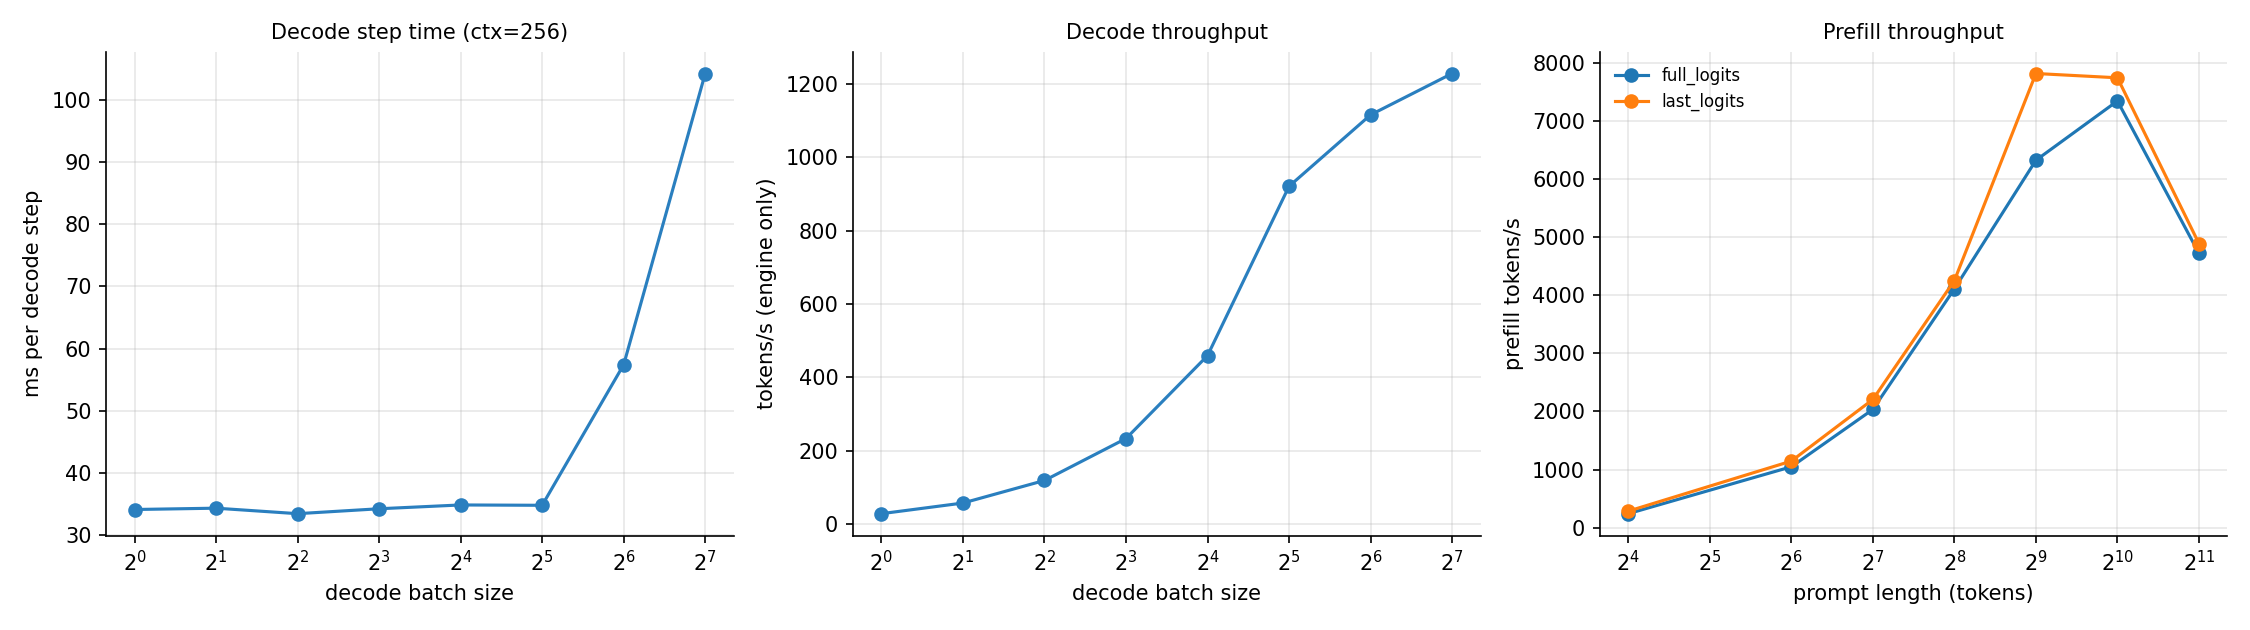
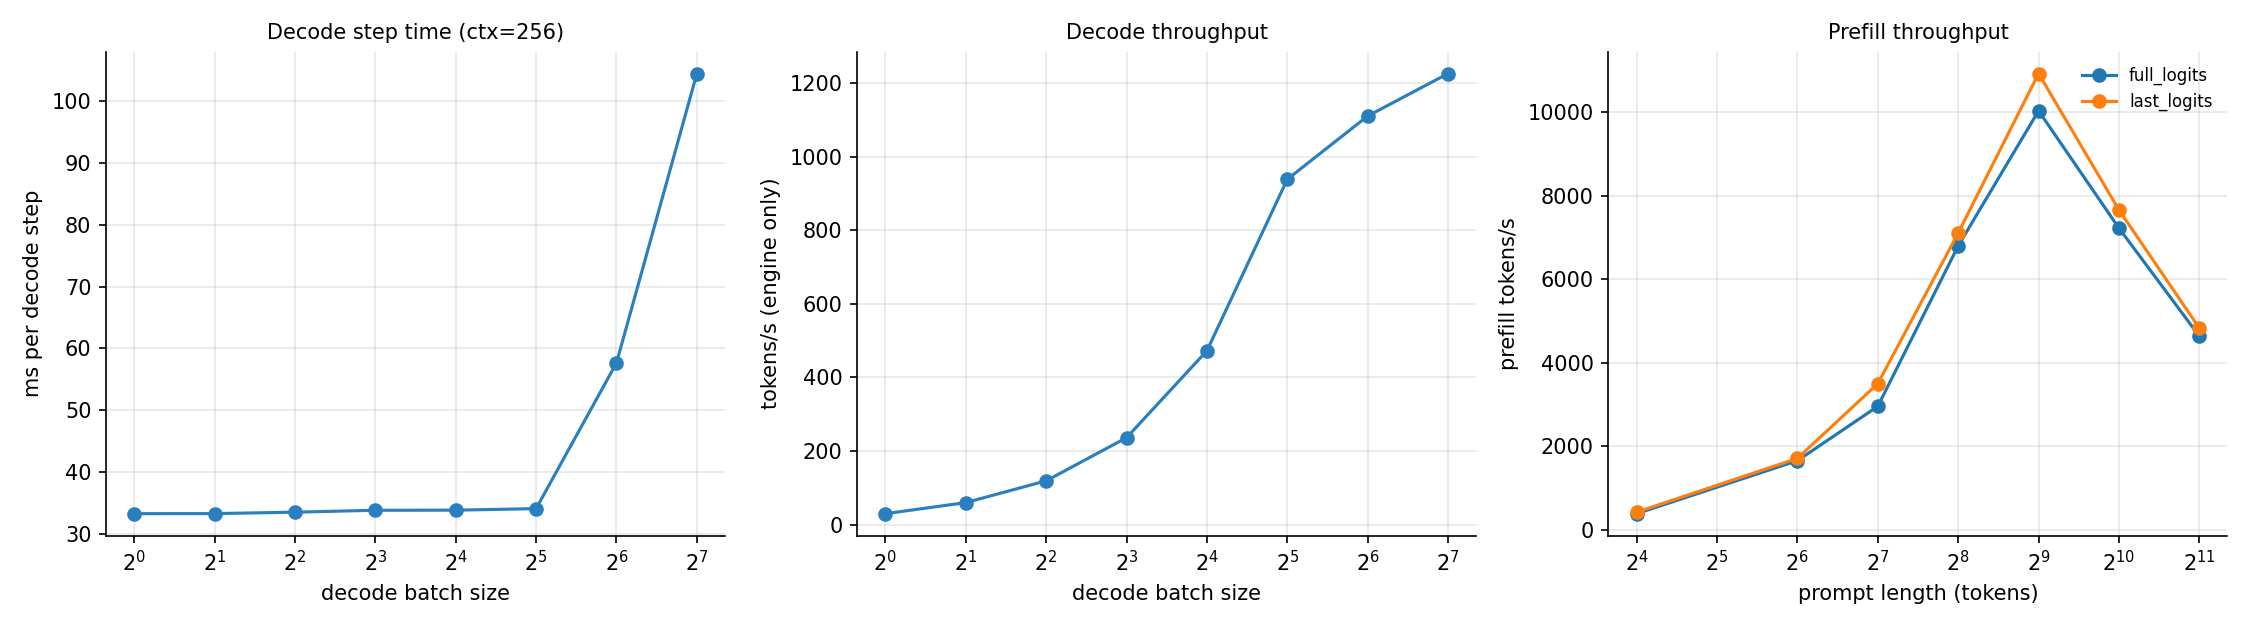
Fix microbench warmup baseline; add CUDA-graph decode experiment; regenerate report

diff --git a/reports/RESULTS.md b/reports/RESULTS.md
@@ -11,9 +11,9 @@
 - Closed-loop peak: **continuous-32** 509 tok/s = 17.2x sequential (30 tok/s).
 - Closed-loop peak: **static-16** 176 tok/s = 5.9x sequential (30 tok/s).
 - Closed-loop peak: **vllm** 1413 tok/s = 47.6x sequential (30 tok/s).
-- Decode step time is nearly flat in batch size: within 1.5x of batch 1 (34.09 ms) up to batch **32**, where decode tokens/s is 31.4x batch 1. This is why batching raises throughput.
-- At batch 128 a decode step takes 104.29 ms, 4.2% of the assumed 320 GB/s peak bandwidth: well below the memory roofline, so the step is not bandwidth-bound; kernel-launch / Python overhead is the likely limiter (check profile_decode.txt).
-- Prefill of a 2048-token prompt takes 419.1 ms when only the last position's logits are computed vs 434.0 ms with full-vocab logits at every position (1.0x).
+- Decode step time is nearly flat in batch size: within 1.5x of batch 1 (33.29 ms) up to batch **32**, where decode tokens/s is 31.2x batch 1. This is why batching raises throughput.
+- At batch 128 a decode step takes 104.46 ms, 4.2% of the assumed 320 GB/s peak bandwidth: well below the memory roofline, so the step is not bandwidth-bound; kernel-launch / Python overhead is the likely limiter (check profile_decode.txt).
+- Prefill of a 2048-token prompt takes 424.0 ms when only the last position's logits are computed vs 441.8 ms with full-vocab logits at every position (1.0x).
 - Computing the lm_head only for the last prompt position does not measurably change closed-loop throughput (291 -> 288 tok/s, 0.99x; run-to-run spread is not shown, so treat differences under ~5% as noise) and moves the share of GPU time spent in prefill from 12% to 12%.
 - float16/int8: 0.27x throughput vs fp32, perplexity 22.455 vs 22.426, greedy outputs match fp32 for the first 58% of tokens on average.
 - float16/nf4: 0.84x throughput vs fp32, perplexity 25.025 vs 22.426, greedy outputs match fp32 for the first 17% of tokens on average.
@@ -49,14 +49,14 @@
 
 | batch | step_ms | tok_per_s | achieved_gb_per_s | bw_utilisation |
 |---|---|---|---|---|
-| 1.000 | 34.093 | 29.332 | 29.074 | 0.091 |
-| 2.000 | 34.307 | 58.297 | 28.984 | 0.091 |
-| 4.000 | 33.422 | 119.681 | 29.940 | 0.094 |
-| 8.000 | 34.214 | 233.824 | 29.615 | 0.093 |
-| 16.000 | 34.825 | 459.434 | 29.817 | 0.093 |
-| 32.000 | 34.771 | 920.313 | 31.312 | 0.098 |
-| 64.000 | 57.410 | 1114.789 | 20.718 | 0.065 |
-| 128.000 | 104.291 | 1227.339 | 13.335 | 0.042 |
+| 1.000 | 33.292 | 30.037 | 29.773 | 0.093 |
+| 2.000 | 33.304 | 60.054 | 29.857 | 0.093 |
+| 4.000 | 33.534 | 119.280 | 29.839 | 0.093 |
+| 8.000 | 33.843 | 236.384 | 29.939 | 0.094 |
+| 16.000 | 33.861 | 472.514 | 30.666 | 0.096 |
+| 32.000 | 34.107 | 938.223 | 31.921 | 0.100 |
+| 64.000 | 57.658 | 1109.990 | 20.628 | 0.064 |
+| 128.000 | 104.456 | 1225.396 | 13.314 | 0.042 |
 
 ### Optimisation ablation: last-position logits in prefill
 

diff --git a/README.md b/README.md
@@ -69,9 +69,9 @@ flowchart LR
 - Closed-loop peak: **continuous-32** 509 tok/s = 17.2x sequential (30 tok/s).
 - Closed-loop peak: **static-16** 176 tok/s = 5.9x sequential (30 tok/s).
 - Closed-loop peak: **vllm** 1413 tok/s = 47.6x sequential (30 tok/s).
-- Decode step time is nearly flat in batch size: within 1.5x of batch 1 (34.09 ms) up to batch **32**, where decode tokens/s is 31.4x batch 1. This is why batching raises throughput.
-- At batch 128 a decode step takes 104.29 ms, 4.2% of the assumed 320 GB/s peak bandwidth: well below the memory roofline, so the step is not bandwidth-bound; kernel-launch / Python overhead is the likely limiter (check profile_decode.txt).
-- Prefill of a 2048-token prompt takes 419.1 ms when only the last position's logits are computed vs 434.0 ms with full-vocab logits at every position (1.0x).
+- Decode step time is nearly flat in batch size: within 1.5x of batch 1 (33.29 ms) up to batch **32**, where decode tokens/s is 31.2x batch 1. This is why batching raises throughput.
+- At batch 128 a decode step takes 104.46 ms, 4.2% of the assumed 320 GB/s peak bandwidth: well below the memory roofline, so the step is not bandwidth-bound; kernel-launch / Python overhead is the likely limiter (check profile_decode.txt).
+- Prefill of a 2048-token prompt takes 424.0 ms when only the last position's logits are computed vs 441.8 ms with full-vocab logits at every position (1.0x).
 - Computing the lm_head only for the last prompt position does not measurably change closed-loop throughput (291 -> 288 tok/s, 0.99x; run-to-run spread is not shown, so treat differences under ~5% as noise) and moves the share of GPU time spent in prefill from 12% to 12%.
 - float16/int8: 0.27x throughput vs fp32, perplexity 22.455 vs 22.426, greedy outputs match fp32 for the first 58% of tokens on average.
 - float16/nf4: 0.84x throughput vs fp32, perplexity 25.025 vs 22.426, greedy outputs match fp32 for the first 17% of tokens on average.
